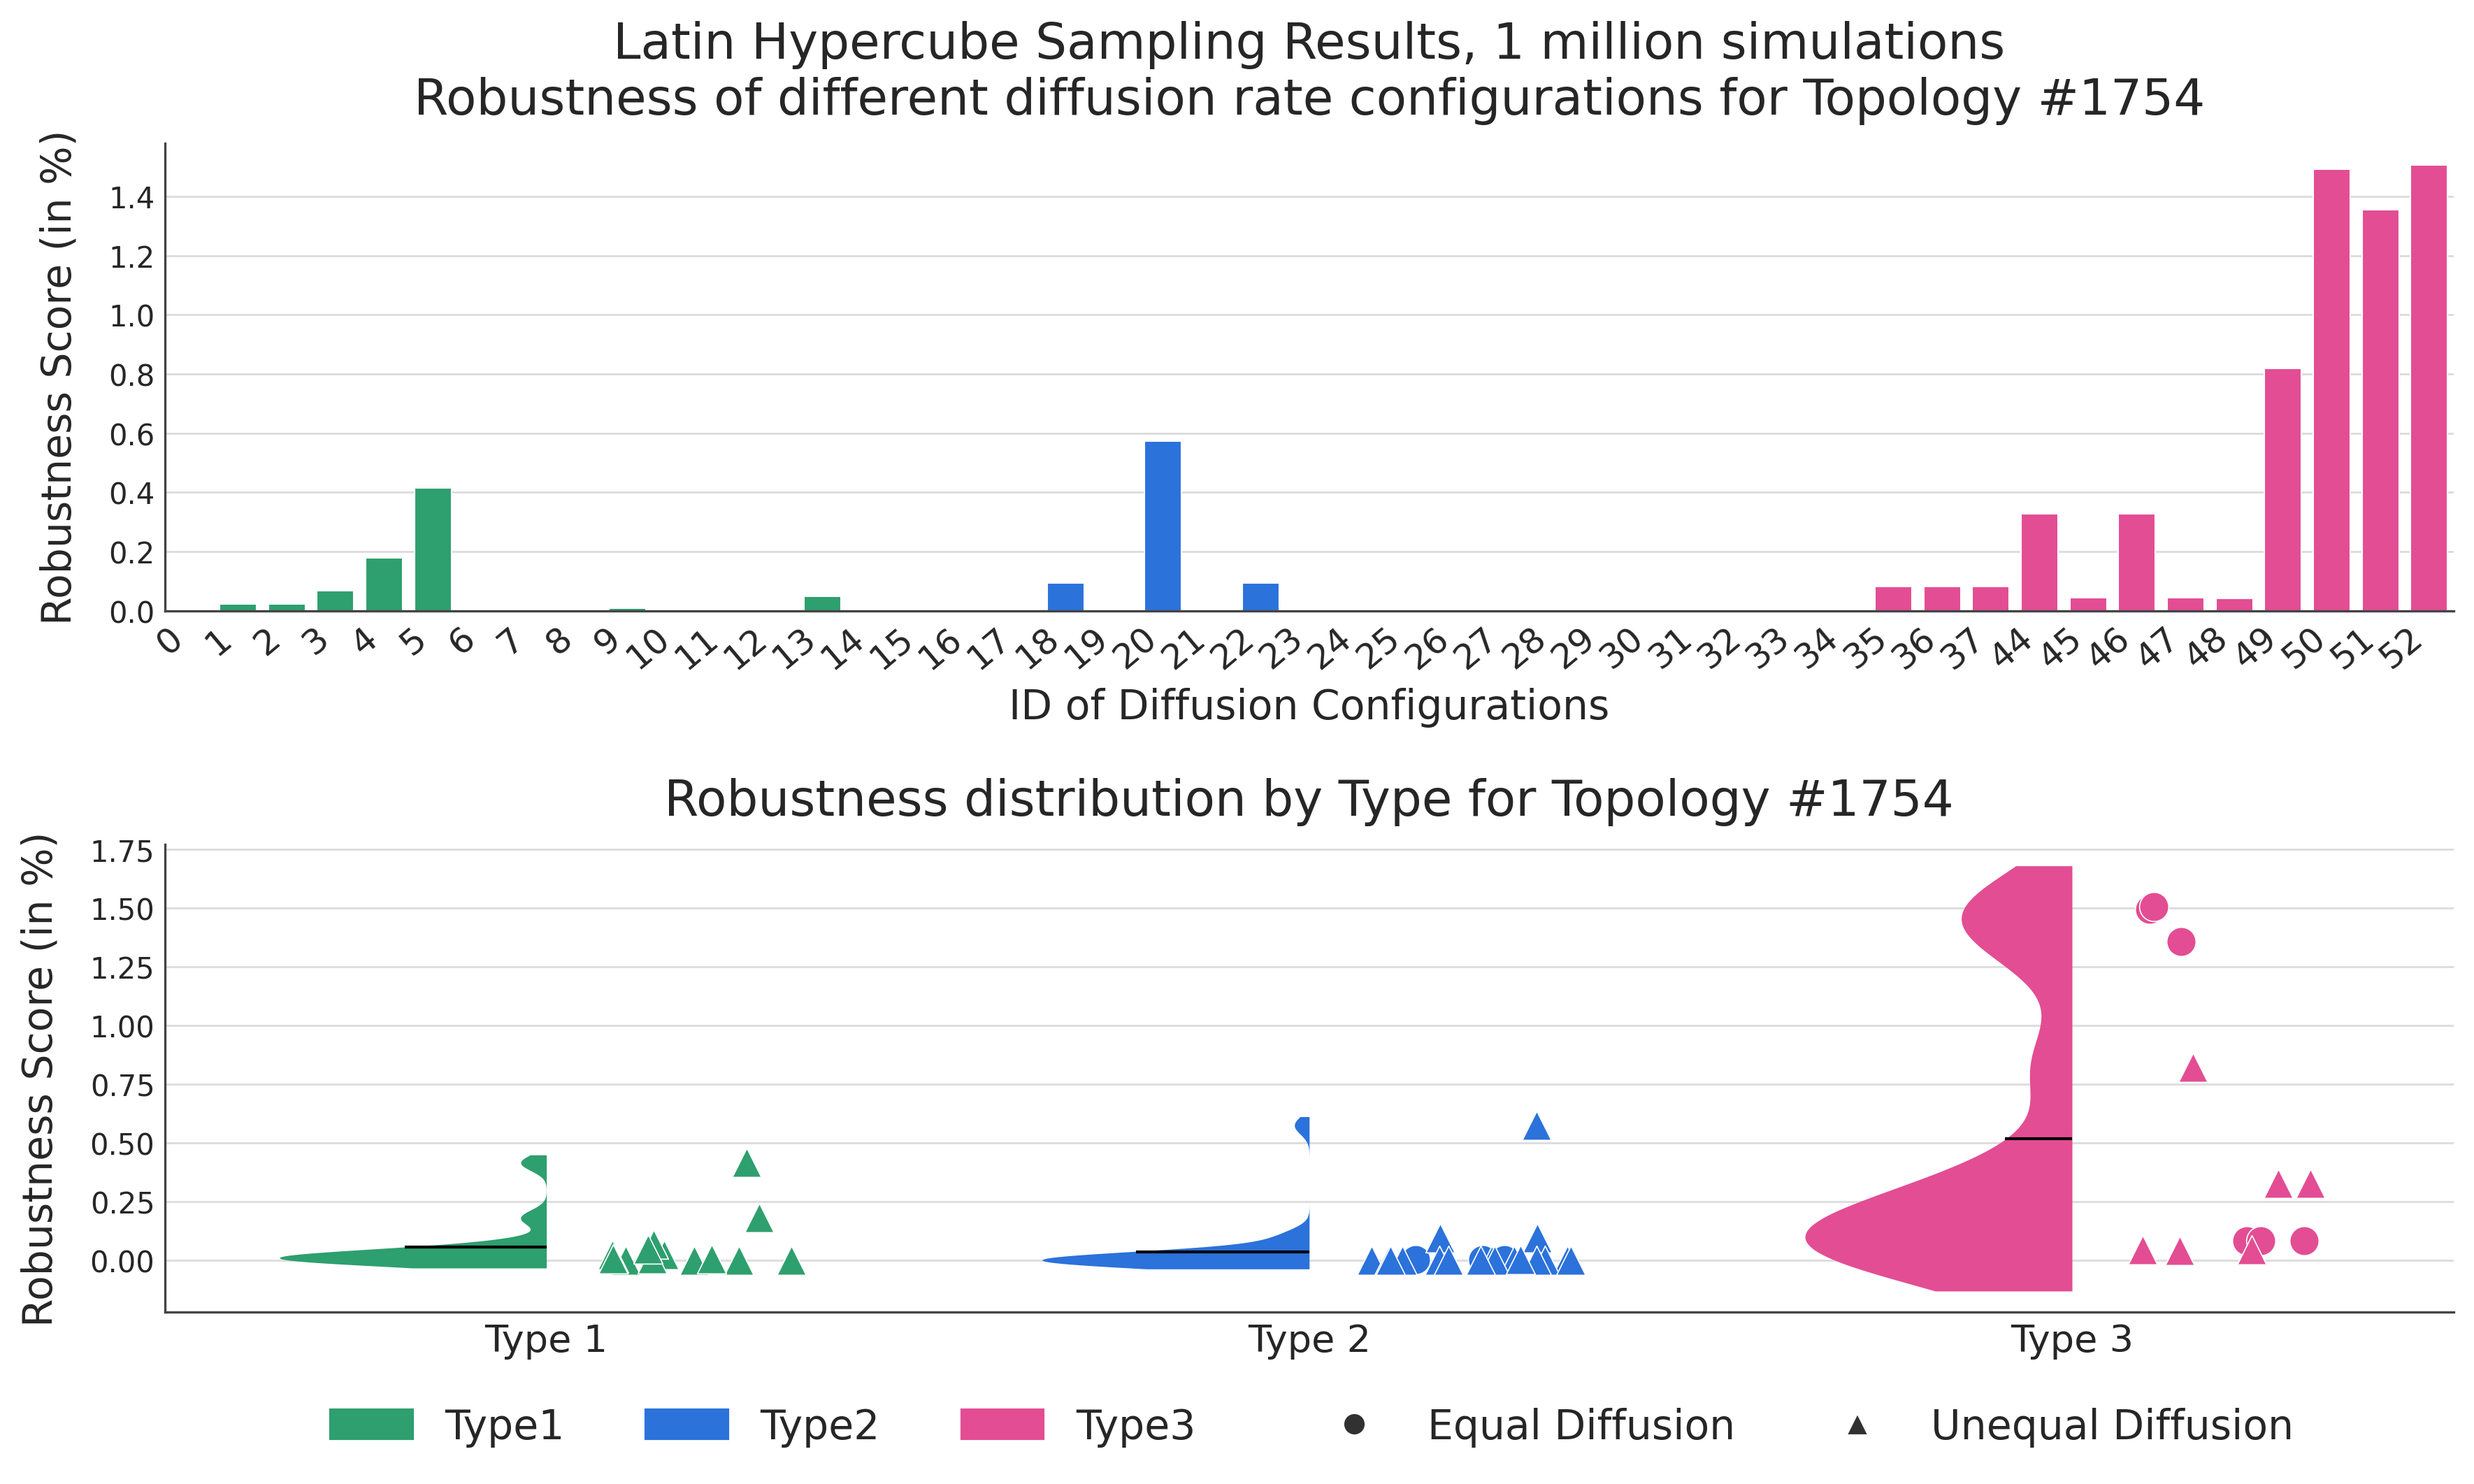
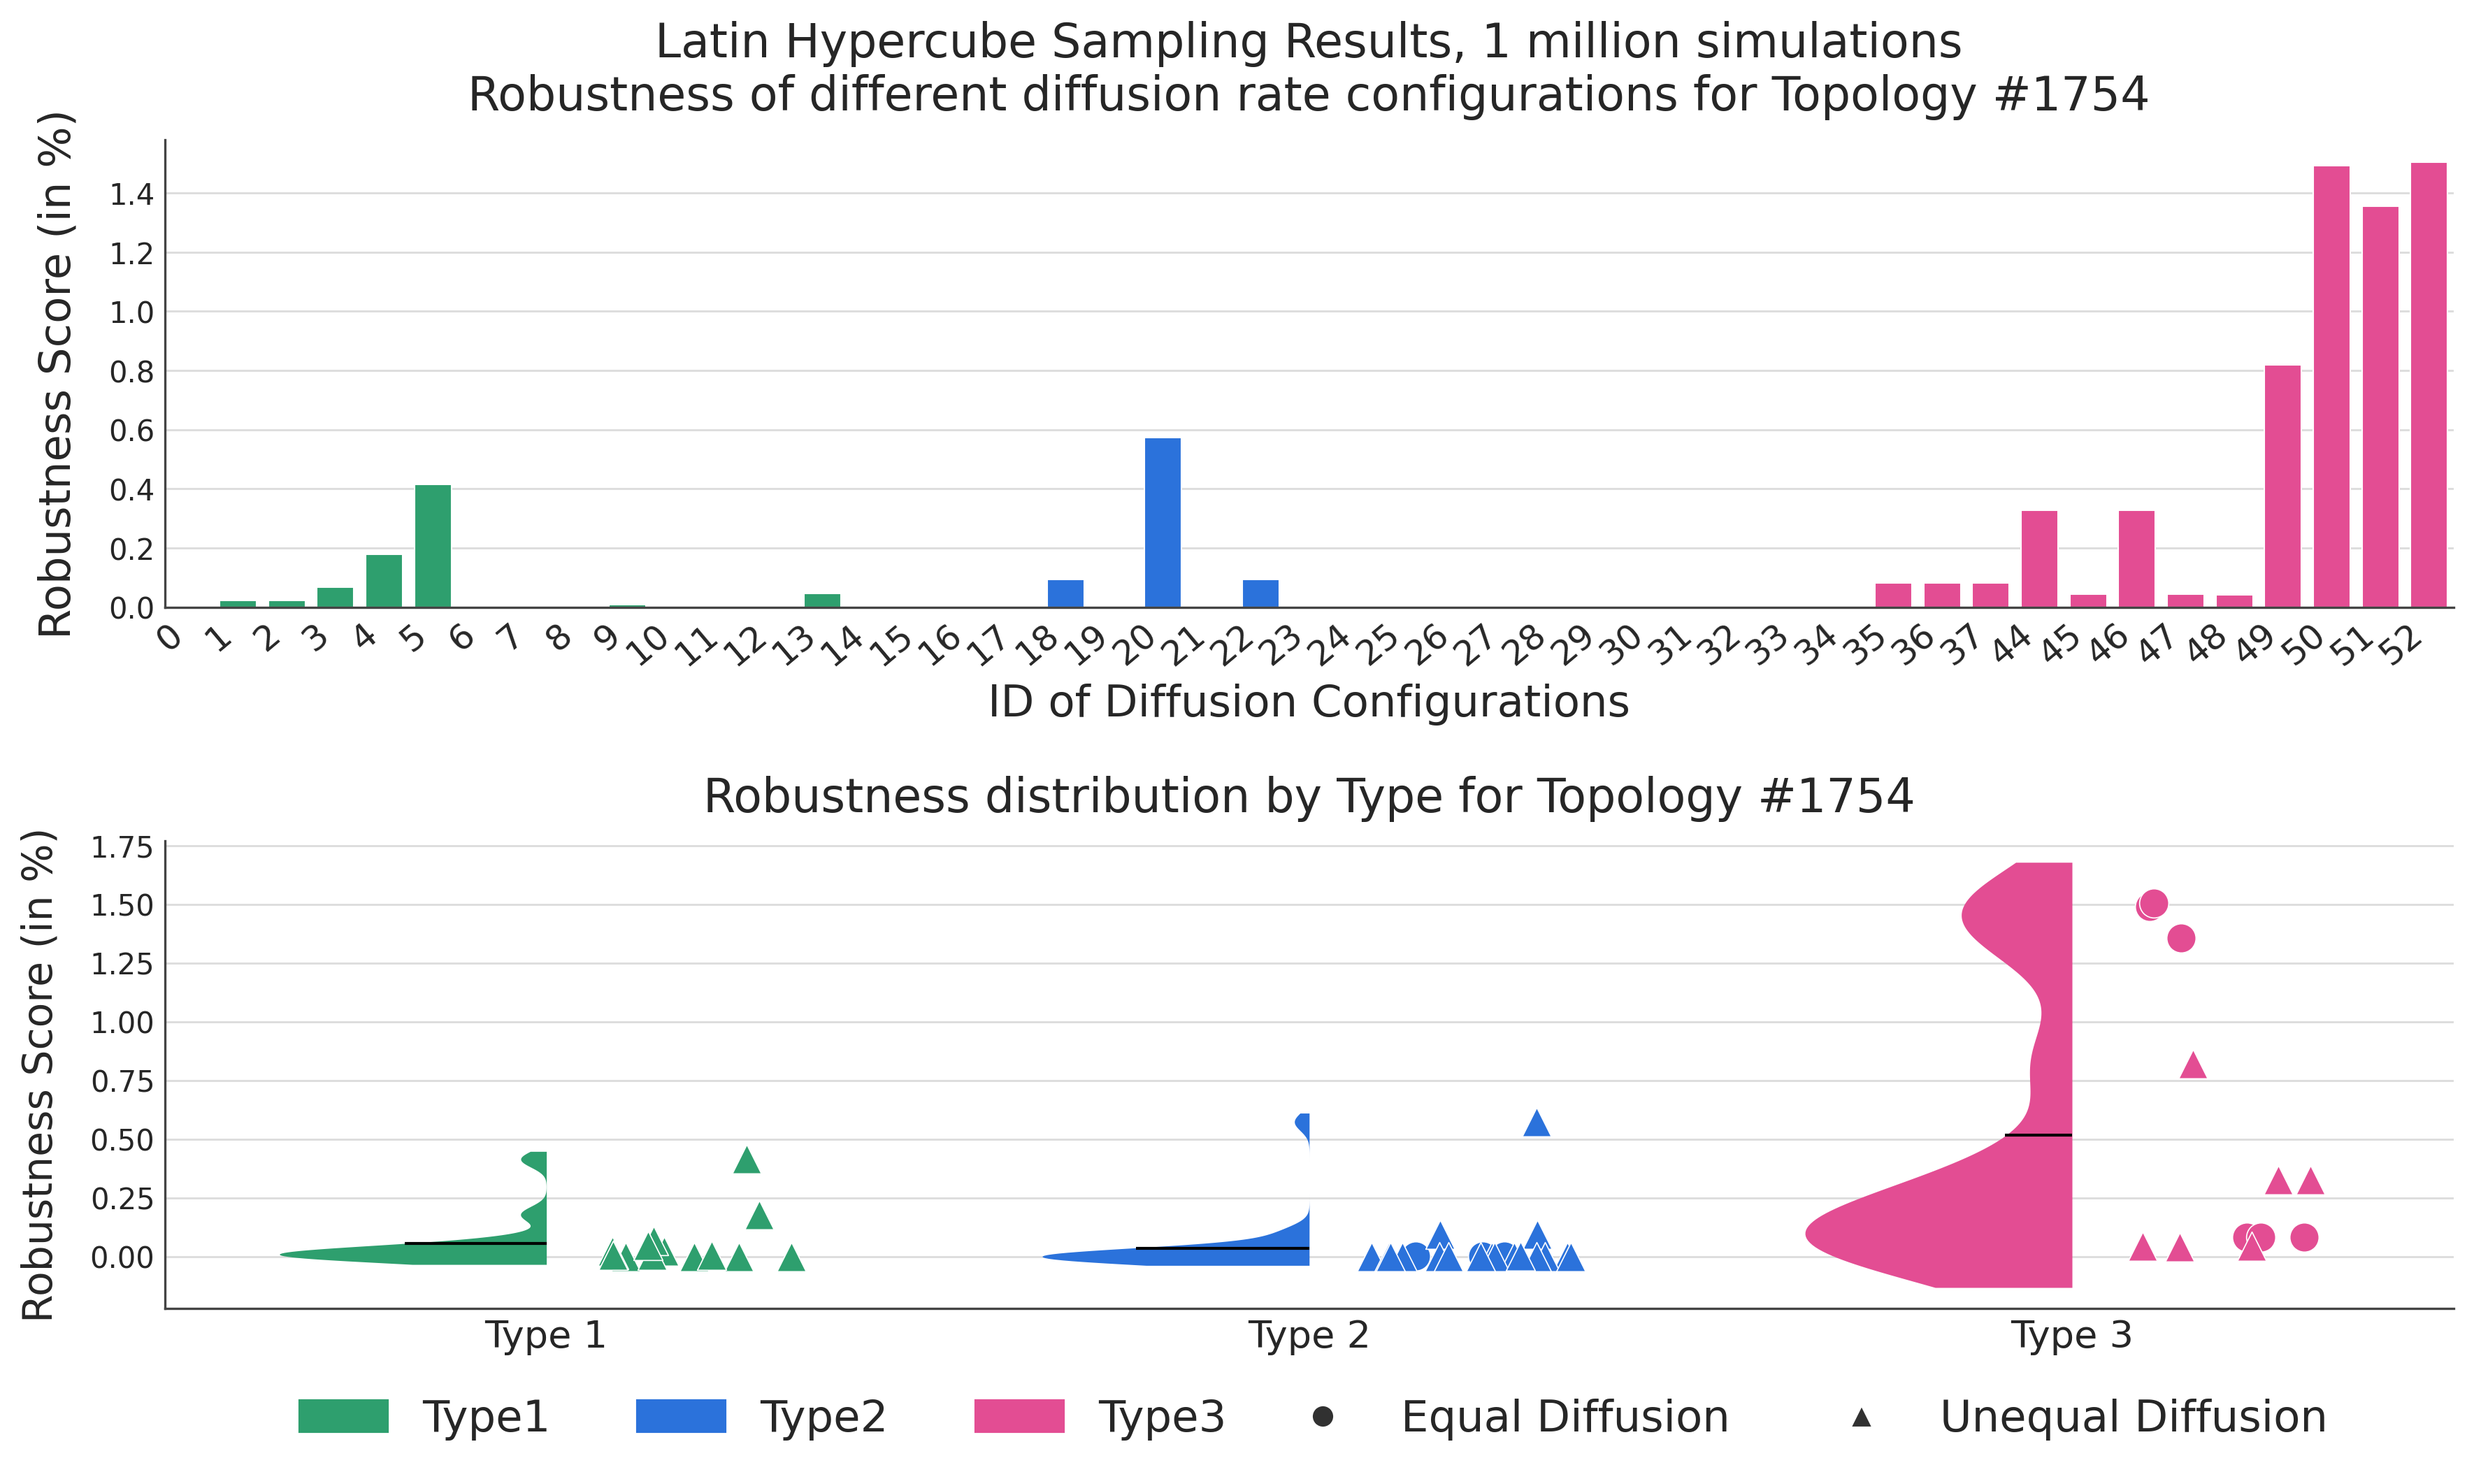
oh ok

diff --git a/TopologyRanking/Topology1754/lhs_plots_results_1754.py b/TopologyRanking/Topology1754/lhs_plots_results_1754.py
@@ -103,10 +103,10 @@ def fig_combined_overview_and_raincloud(df):
 
     #ax1.set_xticklabels(df["config_name"].str.replace(r"FINAL_LHS_3954_|Type\d*_", "", regex=True),rotation=55,ha="right",fontsize=8,)
     ax1.set_xticklabels(df["config_id"], rotation=40, ha="right", fontsize=12)
-    ax1.set_xlabel("ID of Diffusion Configurations", fontsize=14)
+    ax1.set_xlabel("ID of Diffusion Configurations", fontsize=15)
 
-    ax1.set_ylabel("Robustness Score (in %)", fontsize=14, labelpad=10)
-    ax1.set_title("Latin Hypercube Sampling Results, 1 million simulations\nRobustness of different diffusion rate configurations for Topology #1754",fontsize=17,loc="center",pad=10,)
+    ax1.set_ylabel("Robustness Score (in %)", fontsize=15, labelpad=10)
+    ax1.set_title("Latin Hypercube Sampling Results, 1 million simulations\nRobustness of different diffusion rate configurations for Topology #1754",fontsize=16,loc="center",pad=10,)
     ax1.spines[["top", "right"]].set_visible(False)
     ax1.set_xlim(-0.5, len(df) - 0.5)
     ax1.xaxis.grid(False)
@@ -150,7 +150,7 @@ def fig_combined_overview_and_raincloud(df):
     ax2.set_xticks(range(len(types)))
     ax2.set_xticklabels(labels, fontsize=13)
     ax2.set_ylabel("Robustness Score (in %)", fontsize=14, labelpad=10)
-    ax2.set_title("Robustness distribution by Type for Topology #1754",fontsize=17,loc="center",pad=10,)
+    ax2.set_title("Robustness distribution by Type for Topology #1754",fontsize=16,loc="center",pad=10,)
     ax2.xaxis.grid(False)
     ax2.yaxis.grid(True)
     ax2.set_xlim(-0.5, len(types) - 0.5)
@@ -161,8 +161,8 @@ def fig_combined_overview_and_raincloud(df):
     rain_handles = [mlines.Line2D([],[],color="#313131",marker="o",linestyle="None",markersize=8,markeredgecolor="white",label="Equal Diffusion",),
                     mlines.Line2D([],[],color="#313131",marker="^",linestyle="None",markersize=8,markeredgecolor="white",label="Unequal Diffusion",),]
 
-    fig.legend(handles=bar_handles,frameon=False,loc="lower center",bbox_to_anchor=(0.3, 0.02),ncol=3,fontsize=14) # title="Turing Type"
-    fig.legend(handles=rain_handles,frameon=False,loc="lower center",bbox_to_anchor=(0.7, 0.02),ncol=2,fontsize=14) # title="Diffusion Variant",
+    fig.legend(handles=bar_handles,frameon=False,loc="lower center",bbox_to_anchor=(0.3, 0.02),ncol=3,fontsize=15) # title="Turing Type"
+    fig.legend(handles=rain_handles,frameon=False,loc="lower center",bbox_to_anchor=(0.7, 0.02),ncol=2,fontsize=15) # title="Diffusion Variant",
     fig.subplots_adjust(left=0.07, right=0.95, top=0.96, bottom=0.14, hspace=0.5)
 
     save(fig, "final_1754_lhs_overview")

diff --git a/TopologyRanking/Topology1754/rmt_plots_results_1754.py b/TopologyRanking/Topology1754/rmt_plots_results_1754.py
@@ -285,8 +285,8 @@ def complete_robustness_figure(df, sigma_val):
         mlines.Line2D([], [], color='#313131', marker='o', linestyle='None',markersize=8, markeredgecolor='white', label='Equal Diffusion',),
         mlines.Line2D([], [], color='#313131', marker='^', linestyle='None',markersize=8, markeredgecolor='white', label='Unequal Diffusion',),]
 
-    fig.legend(handles=global_handles, frameon=False, loc='lower center', bbox_to_anchor=(0.5, 0.01), ncol=6, fontsize=12, handlelength=2.4, columnspacing=1.6,)
-    fig.suptitle('Random Matrix Theory Results, 1 million simulations\n' 'Robustness of different diffusion rate configurations for Topology #1754', fontsize=17, y=0.98,)
+    fig.legend(handles=global_handles, frameon=False, loc='lower center', bbox_to_anchor=(0.5, 0.01), ncol=6, fontsize=13, handlelength=2.4, columnspacing=1.6,)
+    fig.suptitle('Random Matrix Theory Results, 1 million simulations\n' 'Robustness of different diffusion rate configurations for Topology #1754', fontsize=16, y=0.98,)
     fig.subplots_adjust(left=0.07, right=0.93, top=0.86, bottom=0.12, hspace=0.4, wspace=0.2,) # hspace is gap between Panel A and Panels B/C,  wspace is gap between Panels B and C
 
     # Increase all y-axis tick-label sizes
